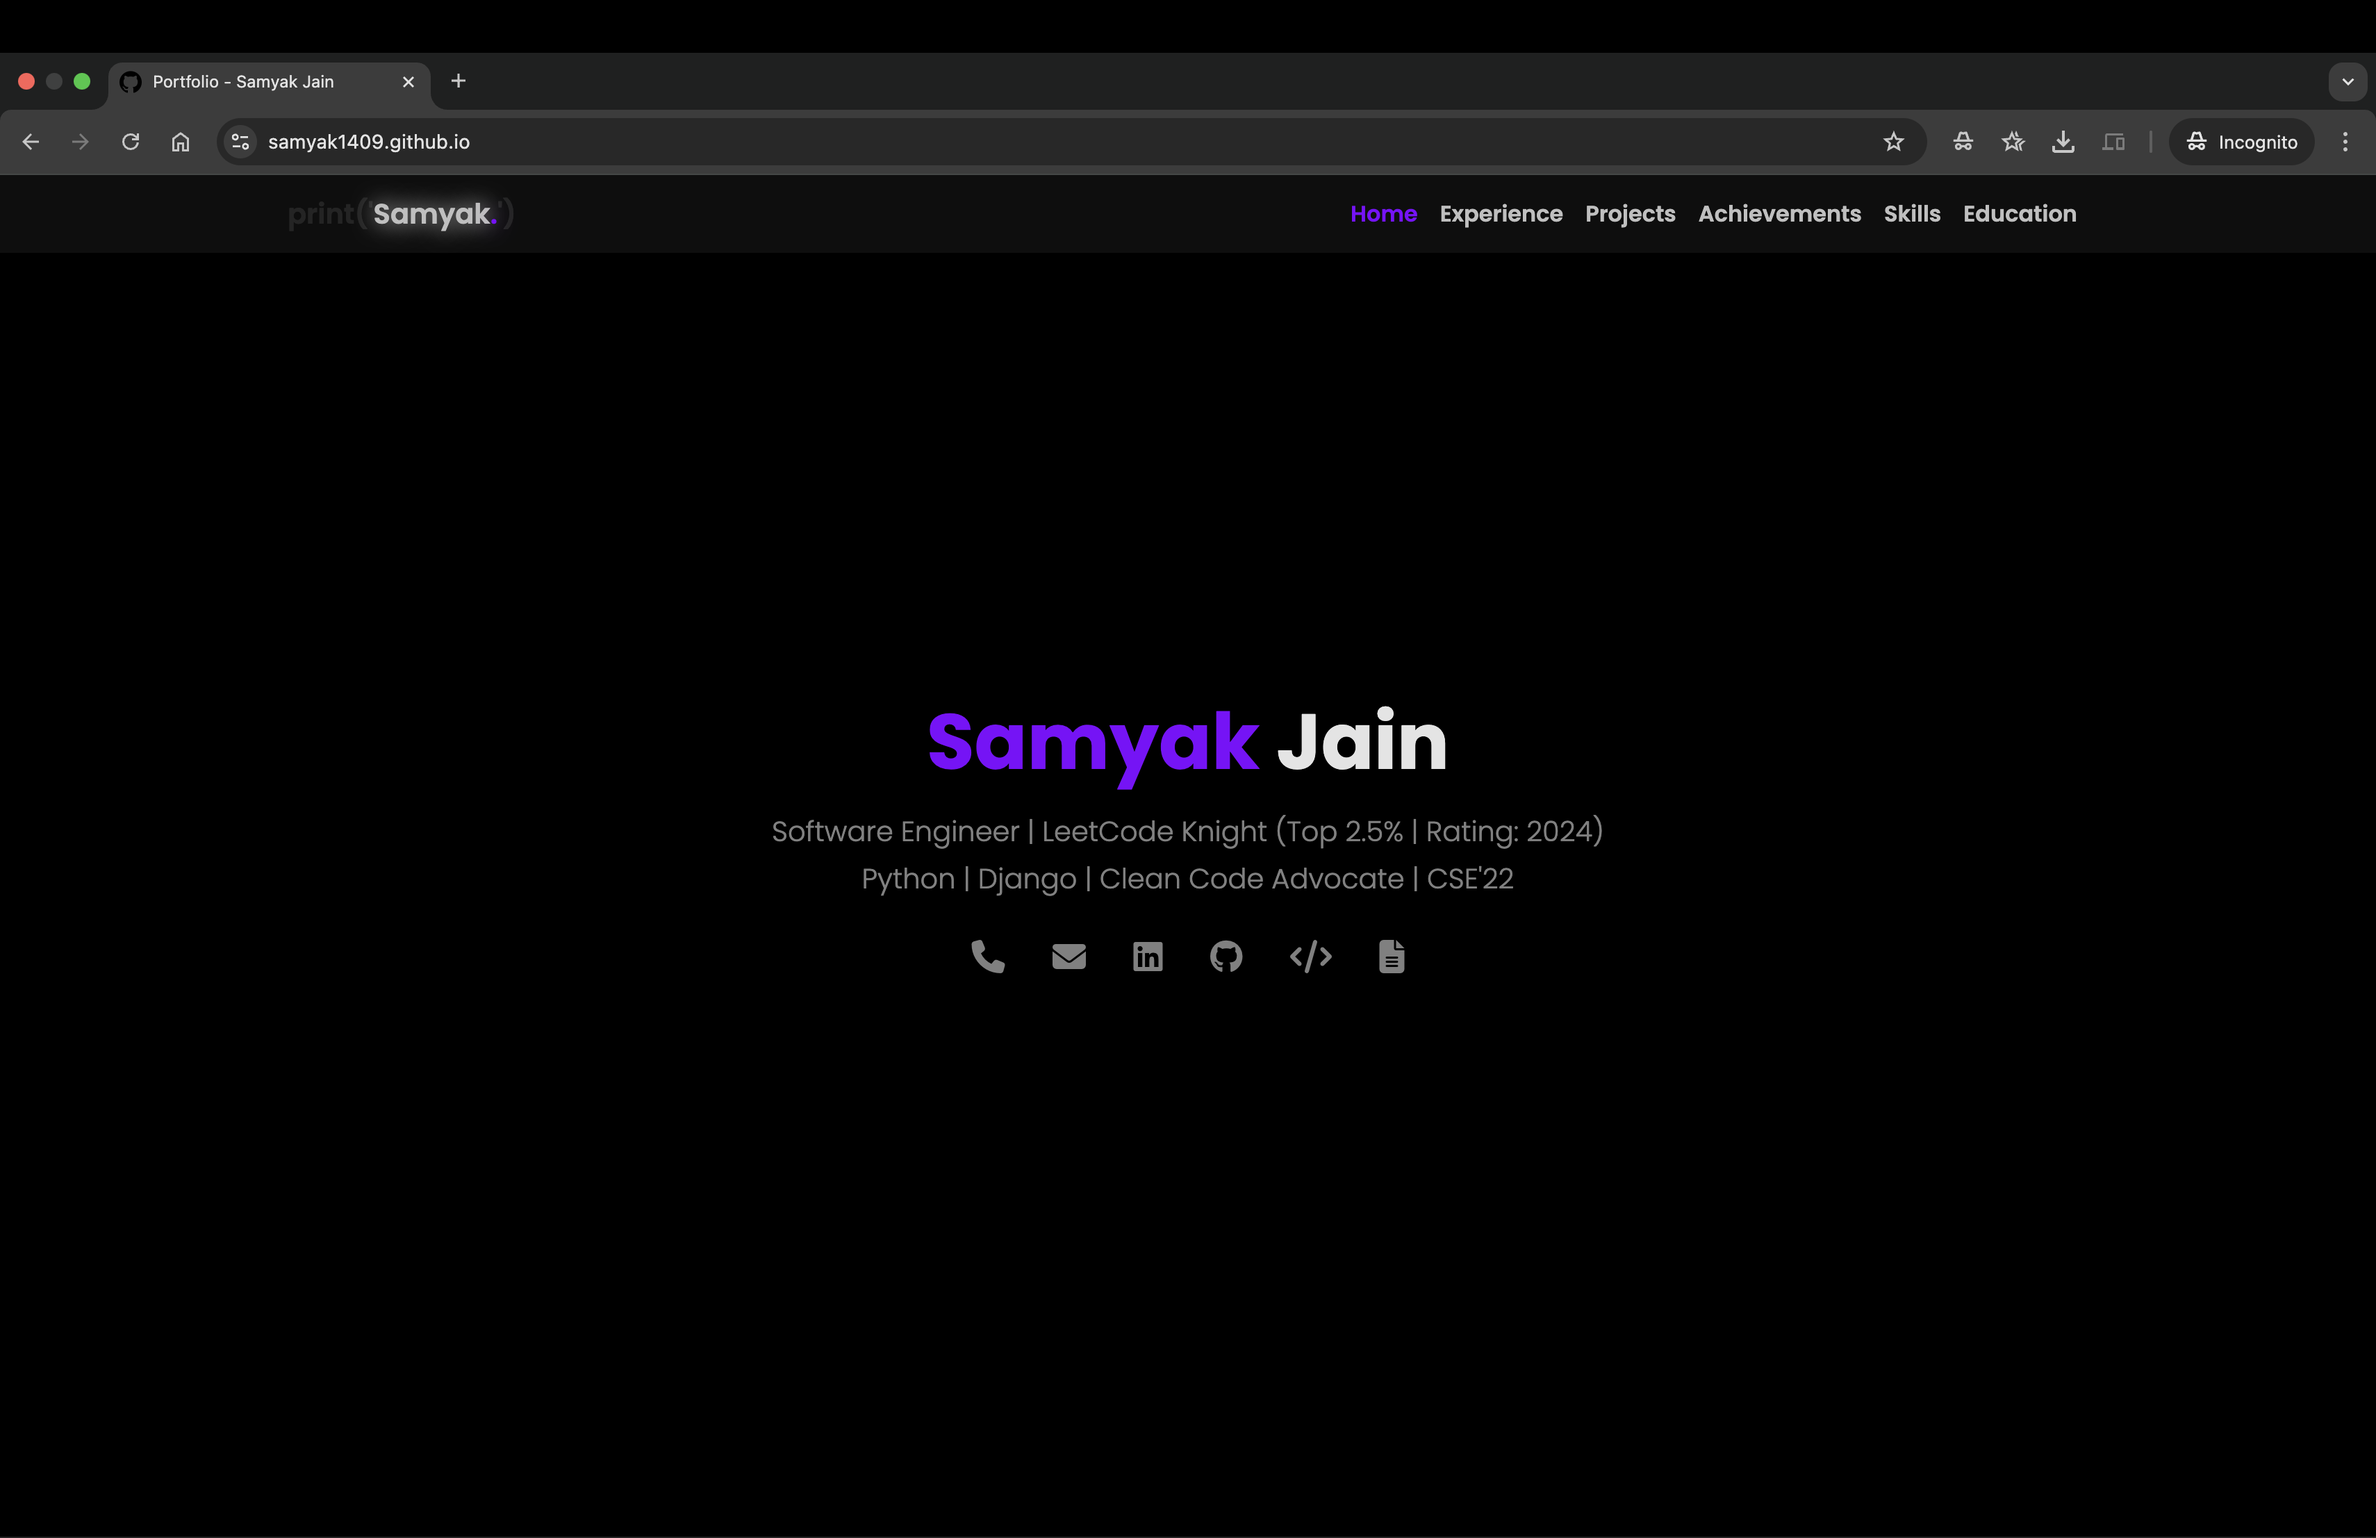
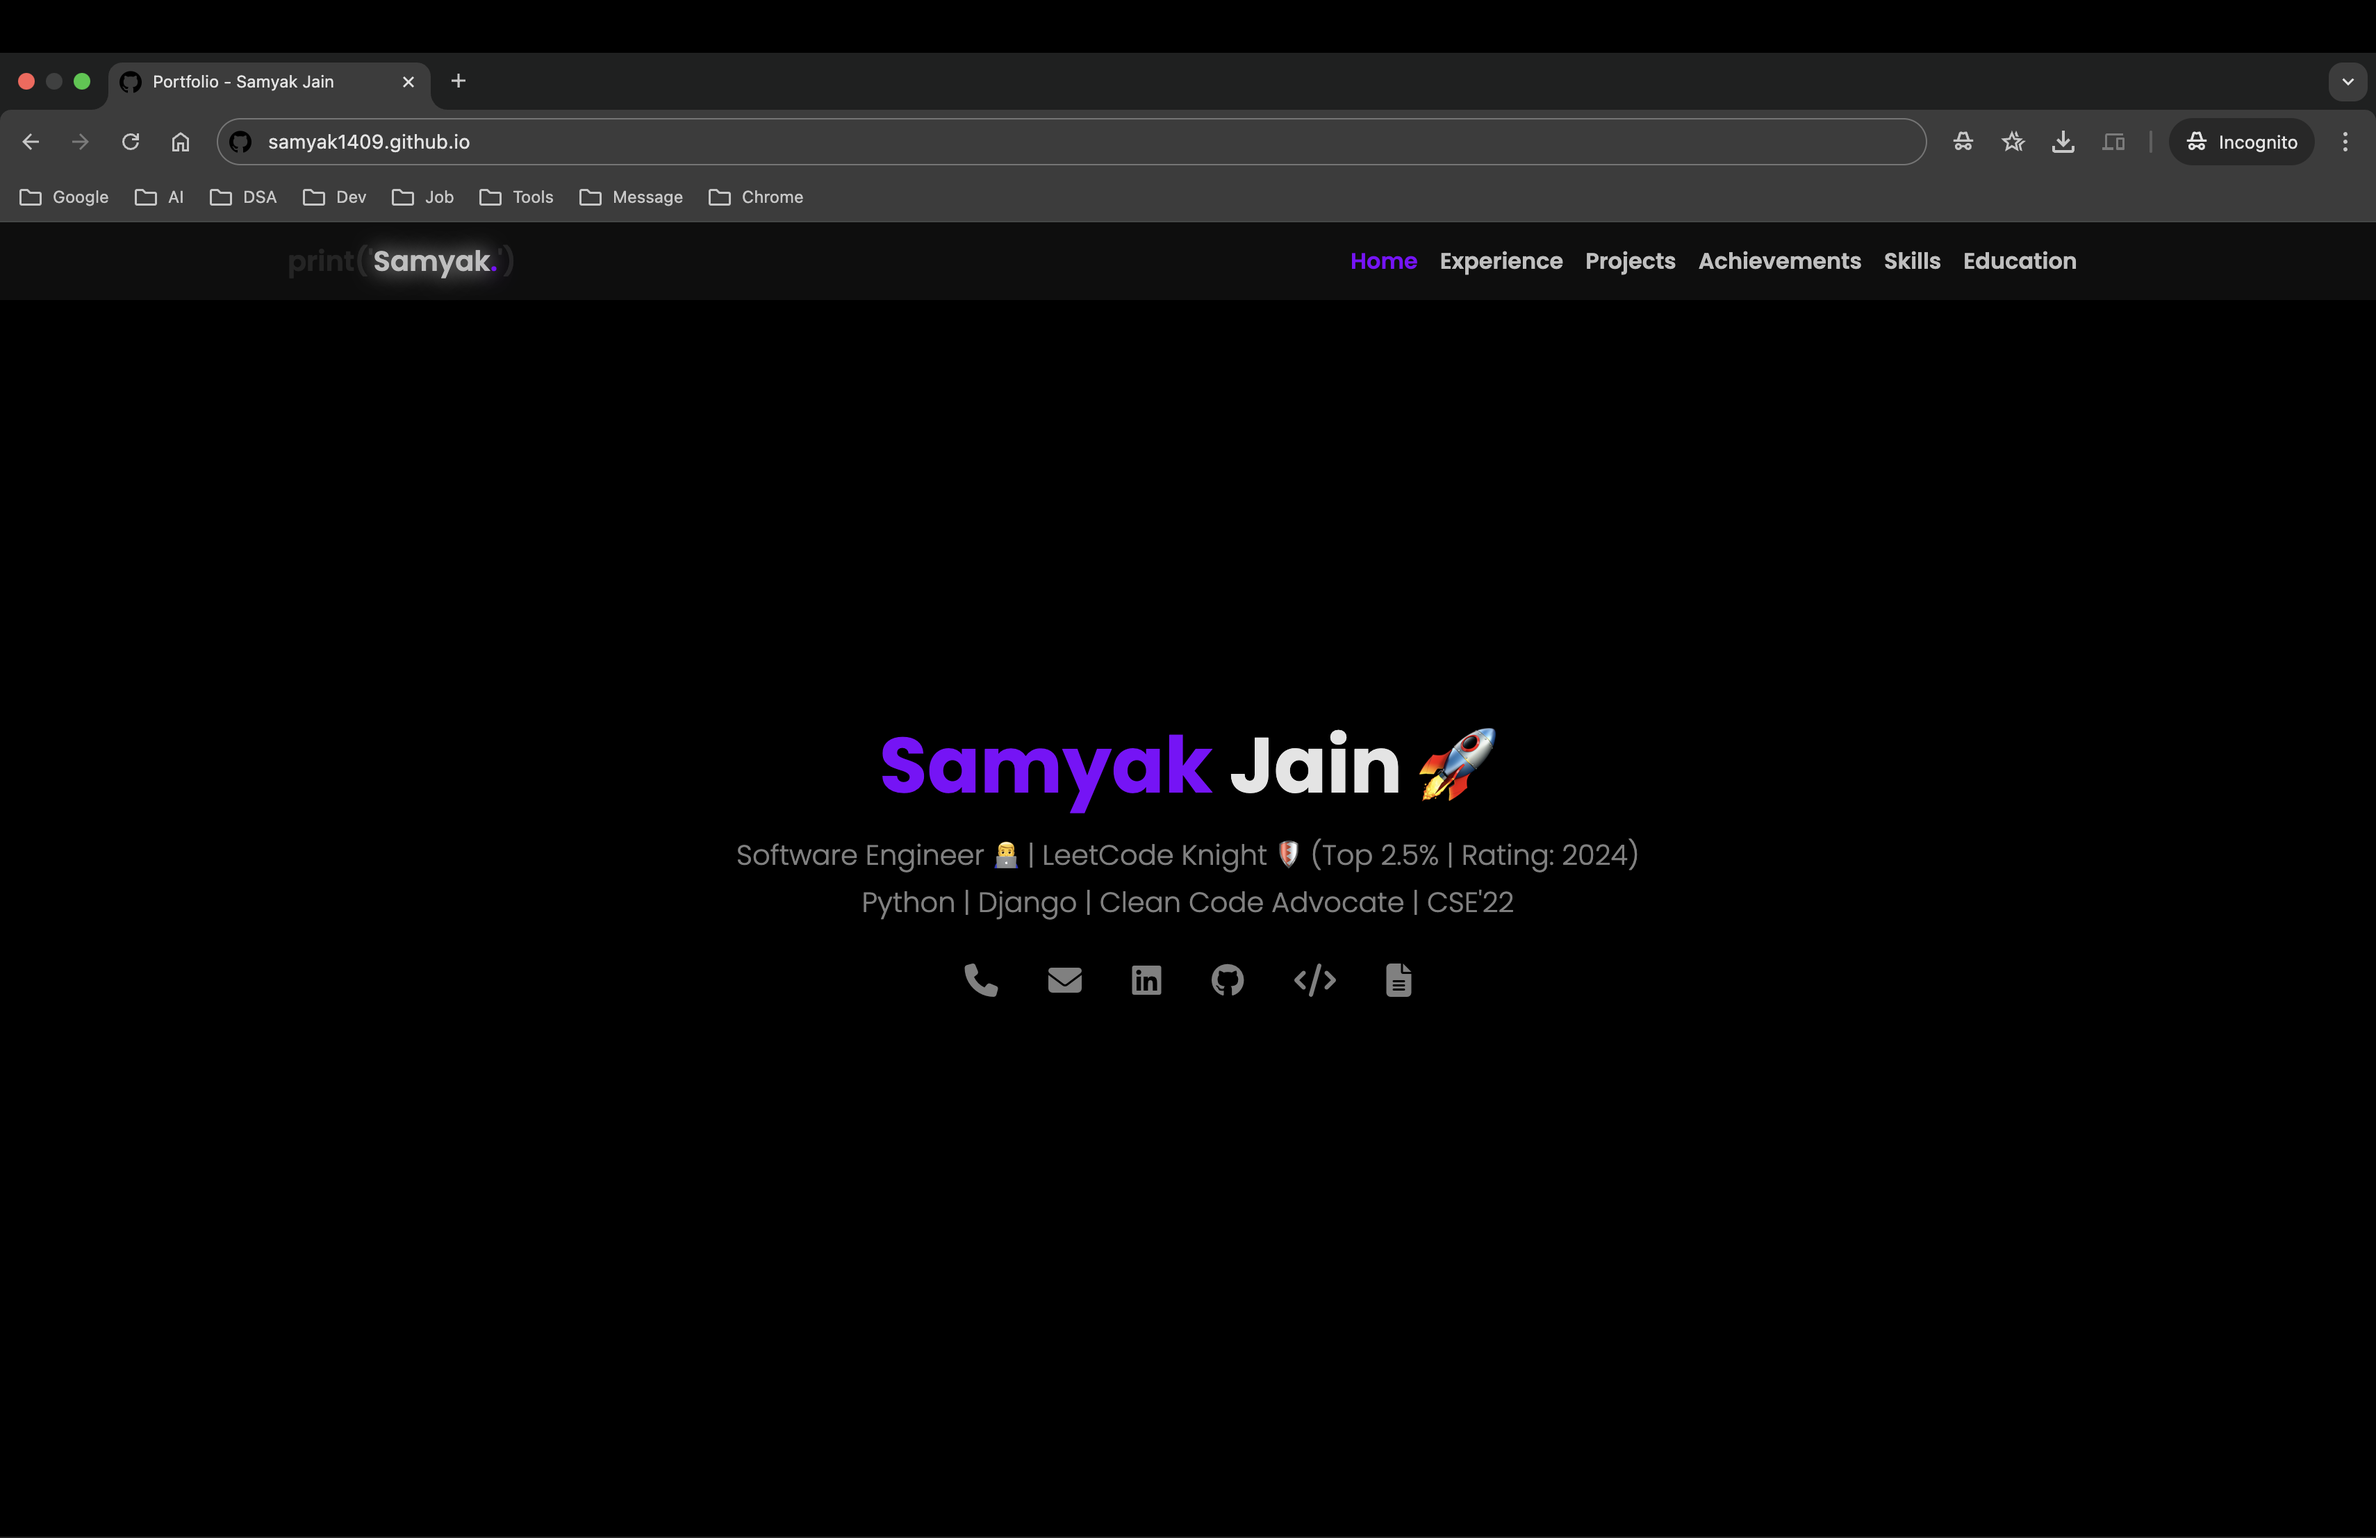
add emojis, change px to rem

Changed region(s): [[0.0, 0.0935, 1.0, 0.187], [0.3099, 0.4675, 0.6819, 0.6545]]

diff --git a/index.html b/index.html
@@ -57,8 +57,8 @@
 <!-- Home Section -->
 <section id="home">
     <div class="container">
-        <h1 class="mb-3"><span class="colored-text">Samyak</span> Jain</h1>
-        <p class="lead mb-1">Software Engineer | LeetCode Knight (Top 2.5% | Rating: 2024)</p>
+        <h1 class="mb-3"><span class="colored-text">Samyak</span> Jain 🚀</h1>
+        <p class="lead mb-1">Software Engineer 👨💻 | LeetCode Knight 🛡 (Top 2.5% | Rating: 2024)</p>
         <p class="lead mb-4">Python | Django | Clean Code Advocate | CSE'22</p>
         <div class="social-links mb-4">
             <a href="tel:+918079000479" target="_blank" aria-label="Phone"><i class="fas fa-phone"
@@ -85,9 +85,9 @@
 <!-- Experience Section -->
 <section id="experience">
     <div class="container">
-        <h2 class="section-title">Experience</h2>
+        <h2 class="section-title"><span class="section-title-text">Experience</span> 💼</h2>
         <!-- Job 1 -->
-        <div class="card-custom job">
+        <div class="card-custom job mb-4">
             <div class="d-flex justify-content-between flex-wrap align-items-baseline mb-3">
                 <div>
                     <h3>Software Engineer (Python Backend)</h3>
@@ -191,10 +191,10 @@
 <!-- Projects Section -->
 <section id="projects">
     <div class="container">
-        <h2 class="section-title">Projects</h2>
+        <h2 class="section-title"><span class="section-title-text">Projects</span> 💻</h2>
         <div>
             <!-- Project 1 -->
-            <div class="card-custom project">
+            <div class="card-custom project mb-4">
                 <h3>Django Blog</h3>
                 <span class="heading-secondary">Web App</span>
                 <ul class="project-details mt-3">
@@ -247,7 +247,7 @@
                 </div>
             </div>
             <!-- Project 2 -->
-            <div class="card-custom project">
+            <div class="card-custom project mb-4">
                 <h3>Minesweeper</h3>
                 <span class="heading-secondary">Desktop App</span>
                 <ul class="project-details mt-3">
@@ -316,7 +316,7 @@
 <!-- Achievements Section -->
 <section id="achievements">
     <div class="container">
-        <h2 class="section-title">Achievements</h2>
+        <h2 class="section-title"><span class="section-title-text">Achievements</span> 🏆</h2>
         <div class="card-custom">
             <ul>
                 <li class="mt-2 mb-4">Earned the prestigious Knight Badge on LeetCode, ranking in the <a
@@ -366,7 +366,7 @@
 <!-- Skills Section -->
 <section id="skills">
     <div class="container">
-        <h2 class="section-title">Skills</h2>
+        <h2 class="section-title"><span class="section-title-text">Skills</span> 🧠</h2>
         <div class="card-custom text-center">
             <div class="border-bottom border-dark mb-3">
                 <h3>Programming Languages</h3>
@@ -395,7 +395,7 @@
 <!-- Education Section -->
 <section id="education">
     <div class="container">
-        <h2 class="section-title">Education</h2>
+        <h2 class="section-title"><span class="section-title-text">Education</span> 🎓</h2>
         <div class="card-custom text-center">
             <h3>B.Tech, Computer Science & Engineering</h3>
             <p class="heading-secondary">
@@ -432,7 +432,7 @@
         <p class="mb-2">
             &copy; 2025 <span class="colored-text glow" data-bs-toggle="tooltip" data-bs-title="Hey!">Samyak</span> Jain
         </p>
-        <p class="glow">
+        <p class="glow mb-0">
             Made with <span class="heart">❤</span>
             <span class="faded-text mx-2">|</span>
             <a href="https://github.com/samyak1409/samyak1409.github.io" target="_blank" aria-label="GitHub">

diff --git a/styles.css b/styles.css
@@ -68,7 +68,7 @@ h1, h2, h3, h4, h5, h6 {
 }
 
 section {
-    padding: 80px 0;
+    padding: 5rem 0;
     border-bottom: 1px solid var(--card-border);
 }
 
@@ -97,7 +97,7 @@ section:last-of-type {
     display: inline-block; /* for transform to work */
     color: var(--medium-gray);
     font-size: 1.5rem;
-    margin: 0 15px;
+    margin: 0 1rem;
     transition: color 0.3s ease, transform 0.3s ease;
 }
 
@@ -106,36 +106,41 @@ section:last-of-type {
     transform: translateY(-3px);
 }
 
+/* Give the title text (excluding the emoji) a 50%, centered, rounded underline: */
 .section-title {
-    text-align: center;
-    margin-bottom: 50px;
-    position: relative;
+  text-align: center;
+  margin-bottom: 3rem;
 }
 
-.section-title::after {
-    content: '';
-    width: 80px;
-    height: 3px;
-    background: var(--accent-color);
-    position: absolute;
-    bottom: -10px;
-    left: 50%;
-    transform: translateX(-50%);
-    border-radius: 2px;
+.section-title-text {
+  position: relative;
+  display: inline-block;
+}
+
+.section-title-text::after {
+  content: '';
+  position: absolute;
+  bottom: -.5rem;
+  left: 50%;
+  transform: translateX(-50%);
+  width: 50%;
+  height: 3px;
+  background: var(--accent-color);
+  border-radius: 2px;
 }
 
 .card-custom {
     background-color: var(--card-bg);
     border: 1px solid var(--card-border);
     border-radius: 12px;
-    padding: 25px 25px 10px;
-    margin-bottom: 20px;
+    padding: 2rem 2rem 1rem;
+    margin-bottom: 1rem;
     transition: transform 0.6s ease, box-shadow 0.3s ease;
 }
 
 .card-custom:hover {
     transform: scale(1.01);
-    box-shadow: 0 10px 20px rgb(100 0 200 / 25%); /* --accent-hover */
+    box-shadow: 0 .5rem 1rem rgb(100 0 200 / 25%); /* --accent-hover */
 }
 
 .card-custom h3 {
@@ -149,7 +154,7 @@ section:last-of-type {
 }
 
 .card-custom ul li {
-    margin-bottom: 10px;
+    margin-bottom: .67rem;
 }
 
 /* Overriding bootstrap btn class to change color & make it rounder. */
@@ -157,7 +162,7 @@ section:last-of-type {
     color: currentColor;
     border-color: currentColor;
     font-weight: 600;
-    padding: 8px 20px;
+    padding: .5rem 1rem;
     border-radius: 50px;
 }
 
@@ -181,7 +186,7 @@ section:last-of-type {
 
 footer {
     background-color: var(--card-bg);
-    padding: 40px 0;
+    padding: 3rem 0;
     text-align: center;
 }
 
